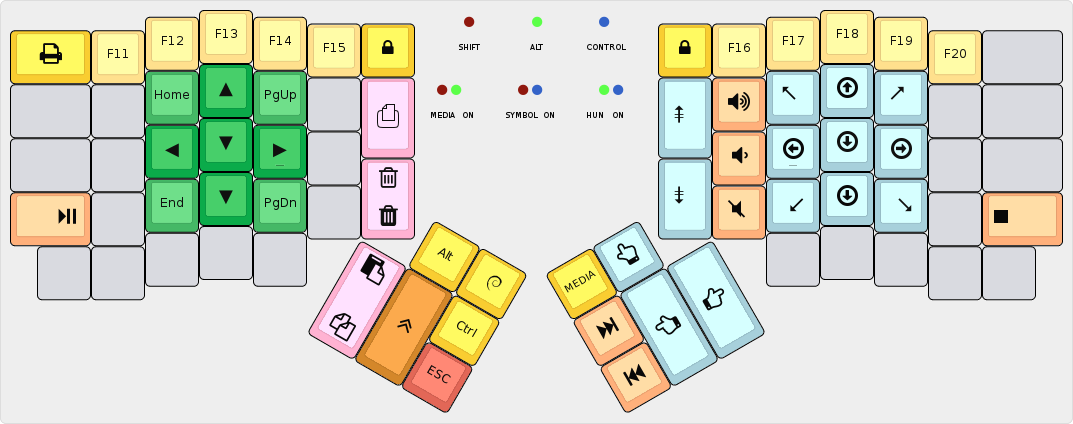
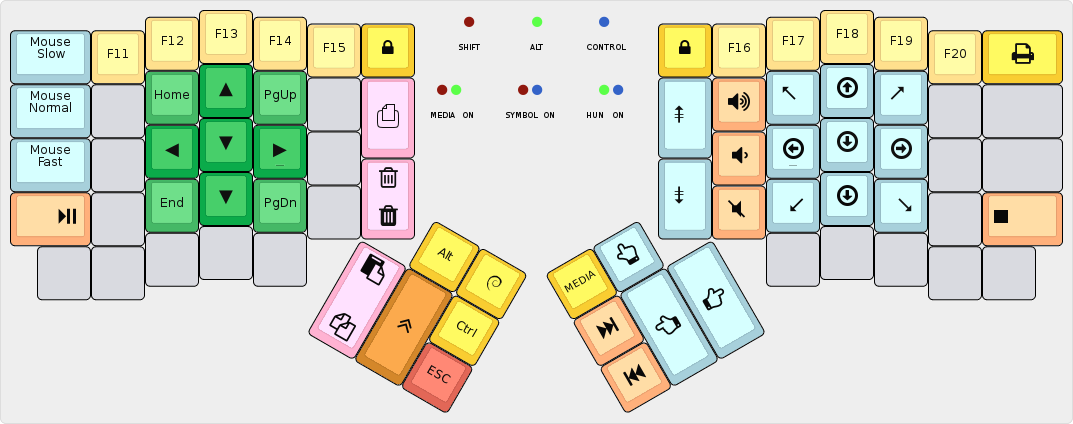
ergodox_ez/algernon: Add mouse acceleration keys

Changed region(s): [[0.0, 0.0613, 0.0923, 0.4599], [0.8919, 0.0613, 1.0, 0.2146]]

diff --git a/keymap.c b/keymap.c
@@ -207,11 +207,11 @@ const uint16_t PROGMEM keymaps[][MATRIX_ROWS][MATRIX_COLS] = {
 /* Keymap 3: Media Lock Layer
  *
  * ,-----------------------------------------------------.           ,-----------------------------------------------------.
- * |PrintScreen| F11  | F12  | F13  | F14  | F15  |ScrLCK|           |ScrLCK| F16  | F17  | F18  | F19  | F20  |           |
+ * | MS Slow   | F11  | F12  | F13  | F14  | F15  |ScrLCK|           |ScrLCK| F16  | F17  | F18  | F19  | F20  |PrintScreen|
  * |-----------+------+------+------+------+-------------|           |------+------+------+------+------+------+-----------|
- * |           |      | Home |  Up  | PgUp |      |Visual|           |Scroll|Vol Up|MsUpL | MsUp |MsUpR |      |           |
+ * | MS Normal |      | Home |  Up  | PgUp |      |Visual|           |Scroll|Vol Up|MsUpL | MsUp |MsUpR |      |           |
  * |-----------+------+------+------+------+------| Mode |           |  Up  |------+------+------+------+------+-----------|
- * |           |      | Left | Down | Right|      |------|           |------|Vol Dn|MsLeft| MsDn |MsRght|      |           |
+ * | MS Fast   |      | Left | Down | Right|      |------|           |------|Vol Dn|MsLeft| MsDn |MsRght|      |           |
  * |-----------+------+------+------+------+------| Cut  |           |Scroll|------+------+------+------+------+-----------|
  * | Play/Pause|      | End  | Down | PgDn |      |Delete|           | Down | Mute |MsDnL | MsDn |MsDnR |      |      Stop |
  * `-----------+------+------+------+------+-------------'           `-------------+------+------+------+------+-----------'
@@ -227,16 +227,16 @@ const uint16_t PROGMEM keymaps[][MATRIX_ROWS][MATRIX_COLS] = {
  */
 [MDIA_LK] = KEYMAP(
 // left hand
- KC_PSCR    ,KC_F11      ,KC_F12  ,KC_F13  ,KC_F14  ,KC_F15  ,LGUI(KC_L)
-,KC_NO      ,KC_NO       ,KC_HOME ,KC_UP   ,KC_PGUP ,KC_NO   ,M(MVISUAL)
-,KC_NO      ,KC_NO       ,KC_LEFT ,KC_DOWN ,KC_RIGHT,KC_NO
+ KC_ACL0    ,KC_F11      ,KC_F12  ,KC_F13  ,KC_F14  ,KC_F15  ,LGUI(KC_L)
+,KC_ACL1    ,KC_NO       ,KC_HOME ,KC_UP   ,KC_PGUP ,KC_NO   ,M(MVISUAL)
+,KC_ACL2    ,KC_NO       ,KC_LEFT ,KC_DOWN ,KC_RIGHT,KC_NO
 ,KC_MPLY    ,KC_NO       ,KC_END  ,KC_DOWN ,KC_PGDN ,KC_NO   ,M(MCUTDEL)
 ,KC_NO      ,KC_NO       ,KC_NO   ,KC_NO   ,KC_NO
                                                     ,KC_TRNS ,KC_TRNS
                                                              ,KC_TRNS
                                            ,M(MCPYP),KC_TRNS ,KC_TRNS
                                                                      // right hand
-                                                                     ,LGUI(KC_L),KC_F16  ,KC_F17 ,KC_F18  ,KC_F19  ,KC_F20  ,KC_NO
+                                                                     ,LGUI(KC_L),KC_F16  ,KC_F17 ,KC_F18  ,KC_F19  ,KC_F20  ,KC_PSCR
                                                                      ,KC_WH_U   ,KC_VOLU ,M(MUL) ,KC_MS_U ,M(MUR)  ,KC_NO   ,KC_NO
                                                                                 ,KC_VOLD ,KC_MS_L,KC_MS_D ,KC_MS_R ,KC_NO   ,KC_NO
                                                                      ,KC_WH_D   ,KC_MUTE ,M(MDL) ,KC_MS_D ,M(MDR)  ,KC_NO   ,KC_MSTP

diff --git a/config_user.h b/config_user.h
@@ -1,0 +1,12 @@
+#ifndef CONFIG_USER_H
+#define CONFIG_USER_H 1
+
+#include "config.h"
+
+#undef MOUSEKEY_TIME_TO_MAX
+#undef MOUSEKEY_MAX_SPEED
+
+#define MOUSEKEY_TIME_TO_MAX 1
+#define MOUSEKEY_MAX_SPEED 2
+
+#endif
